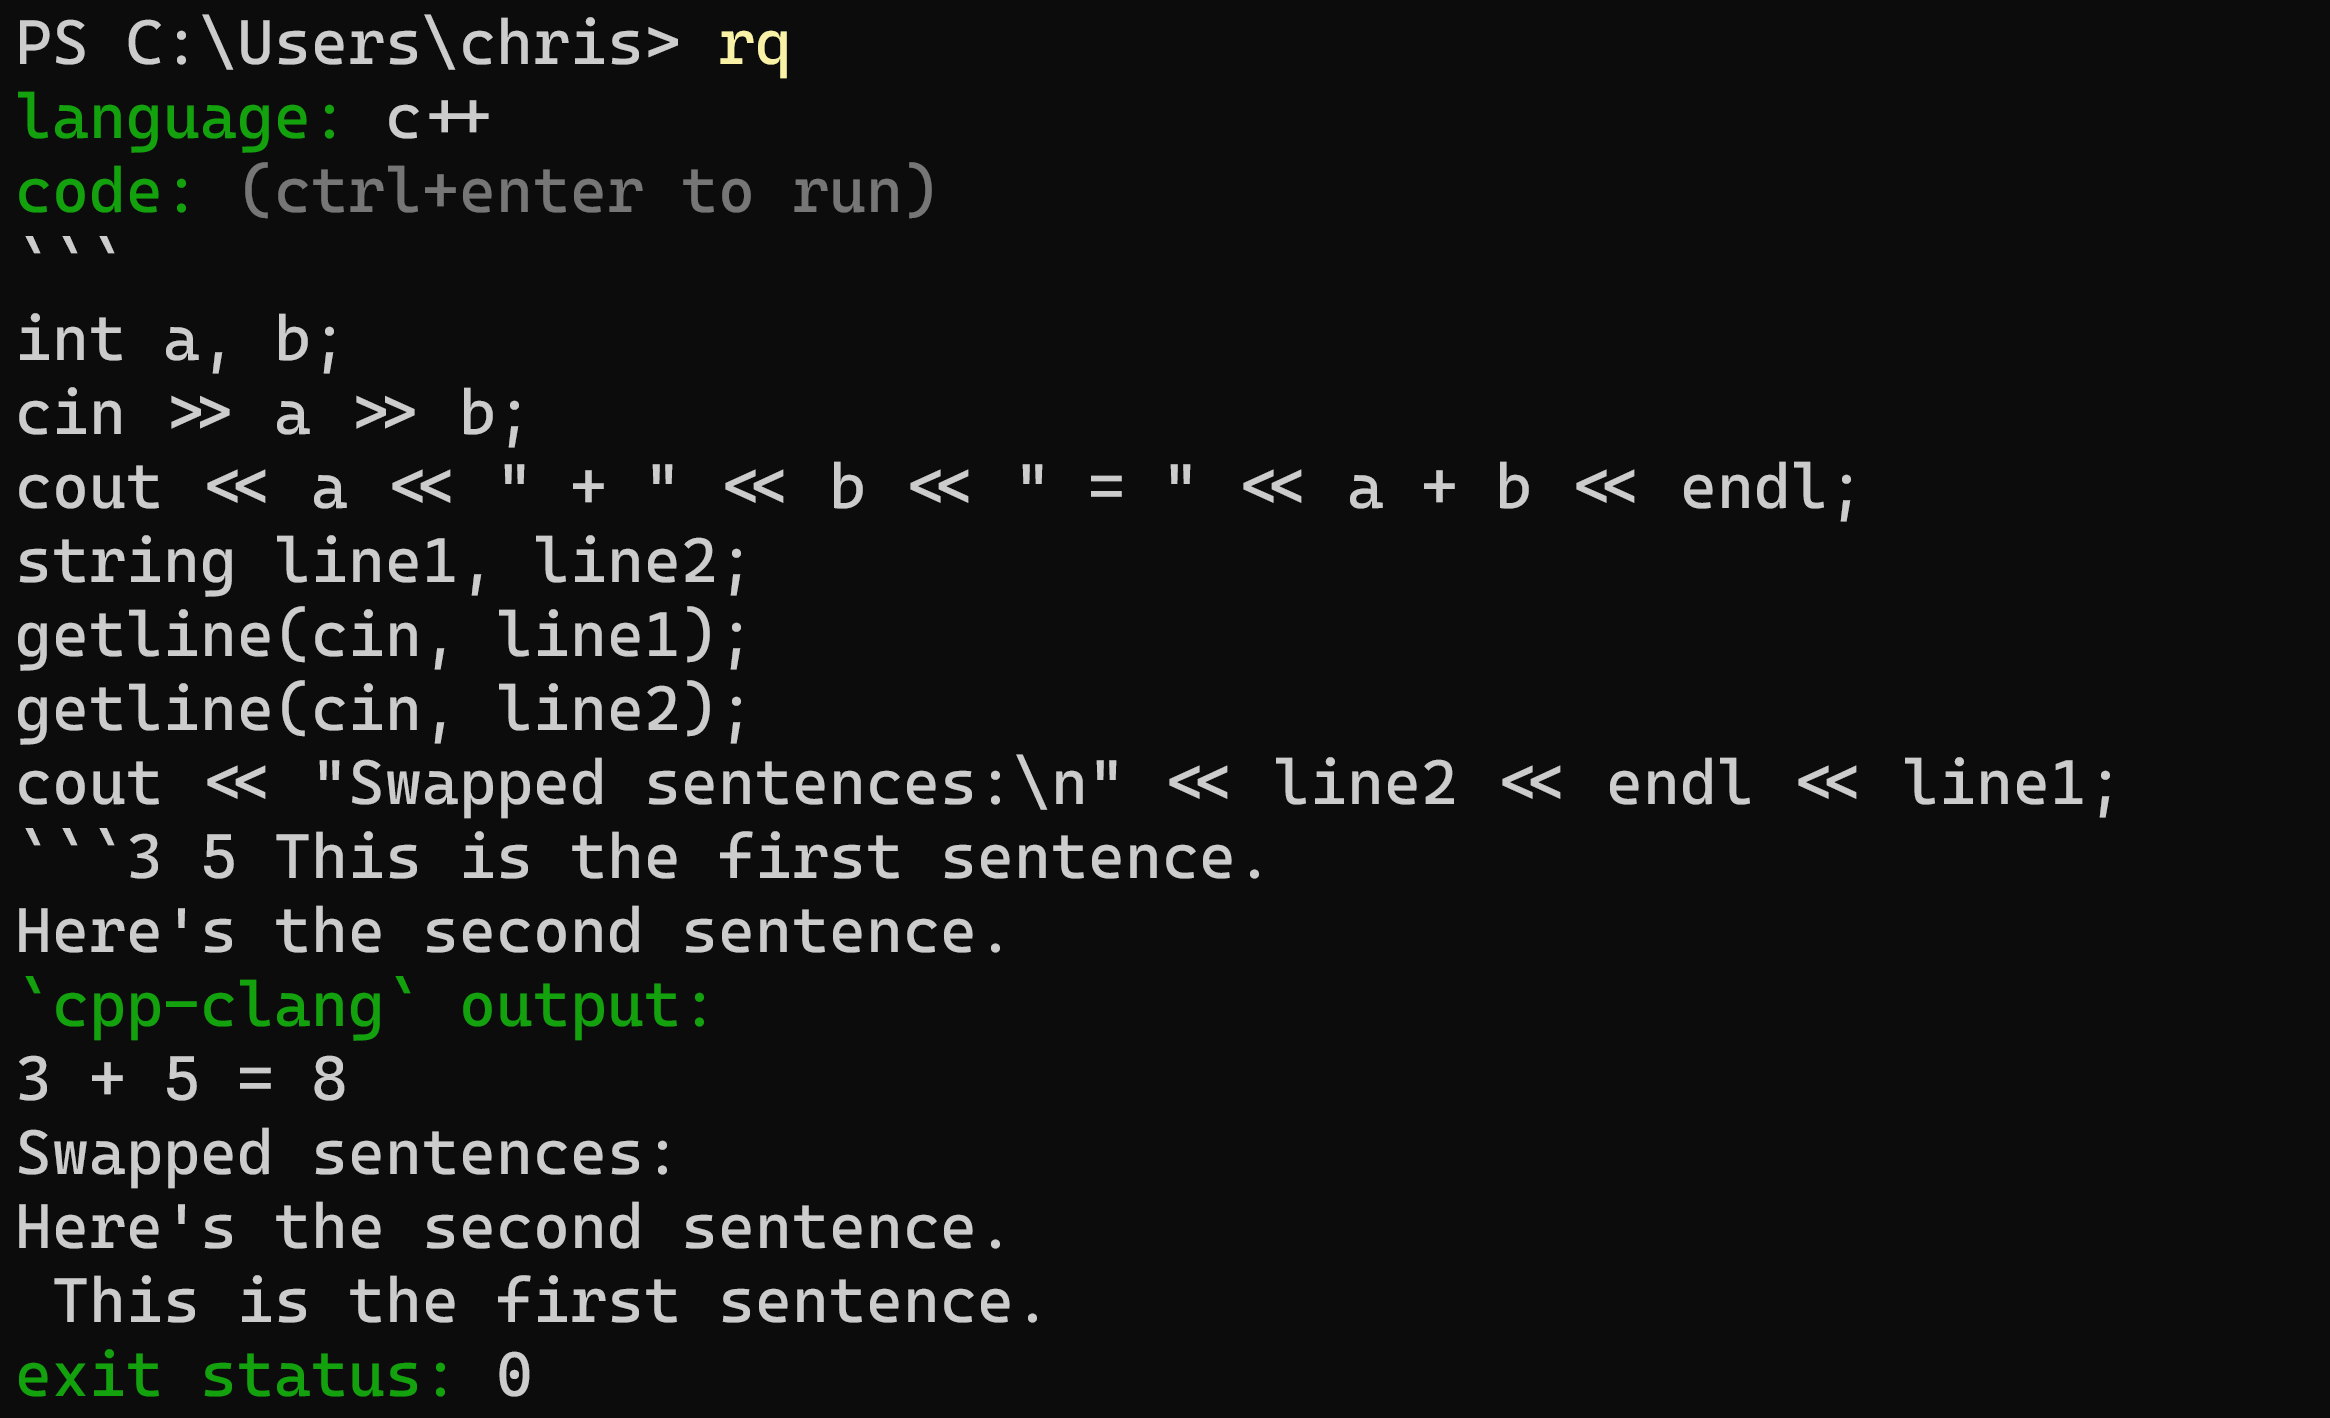
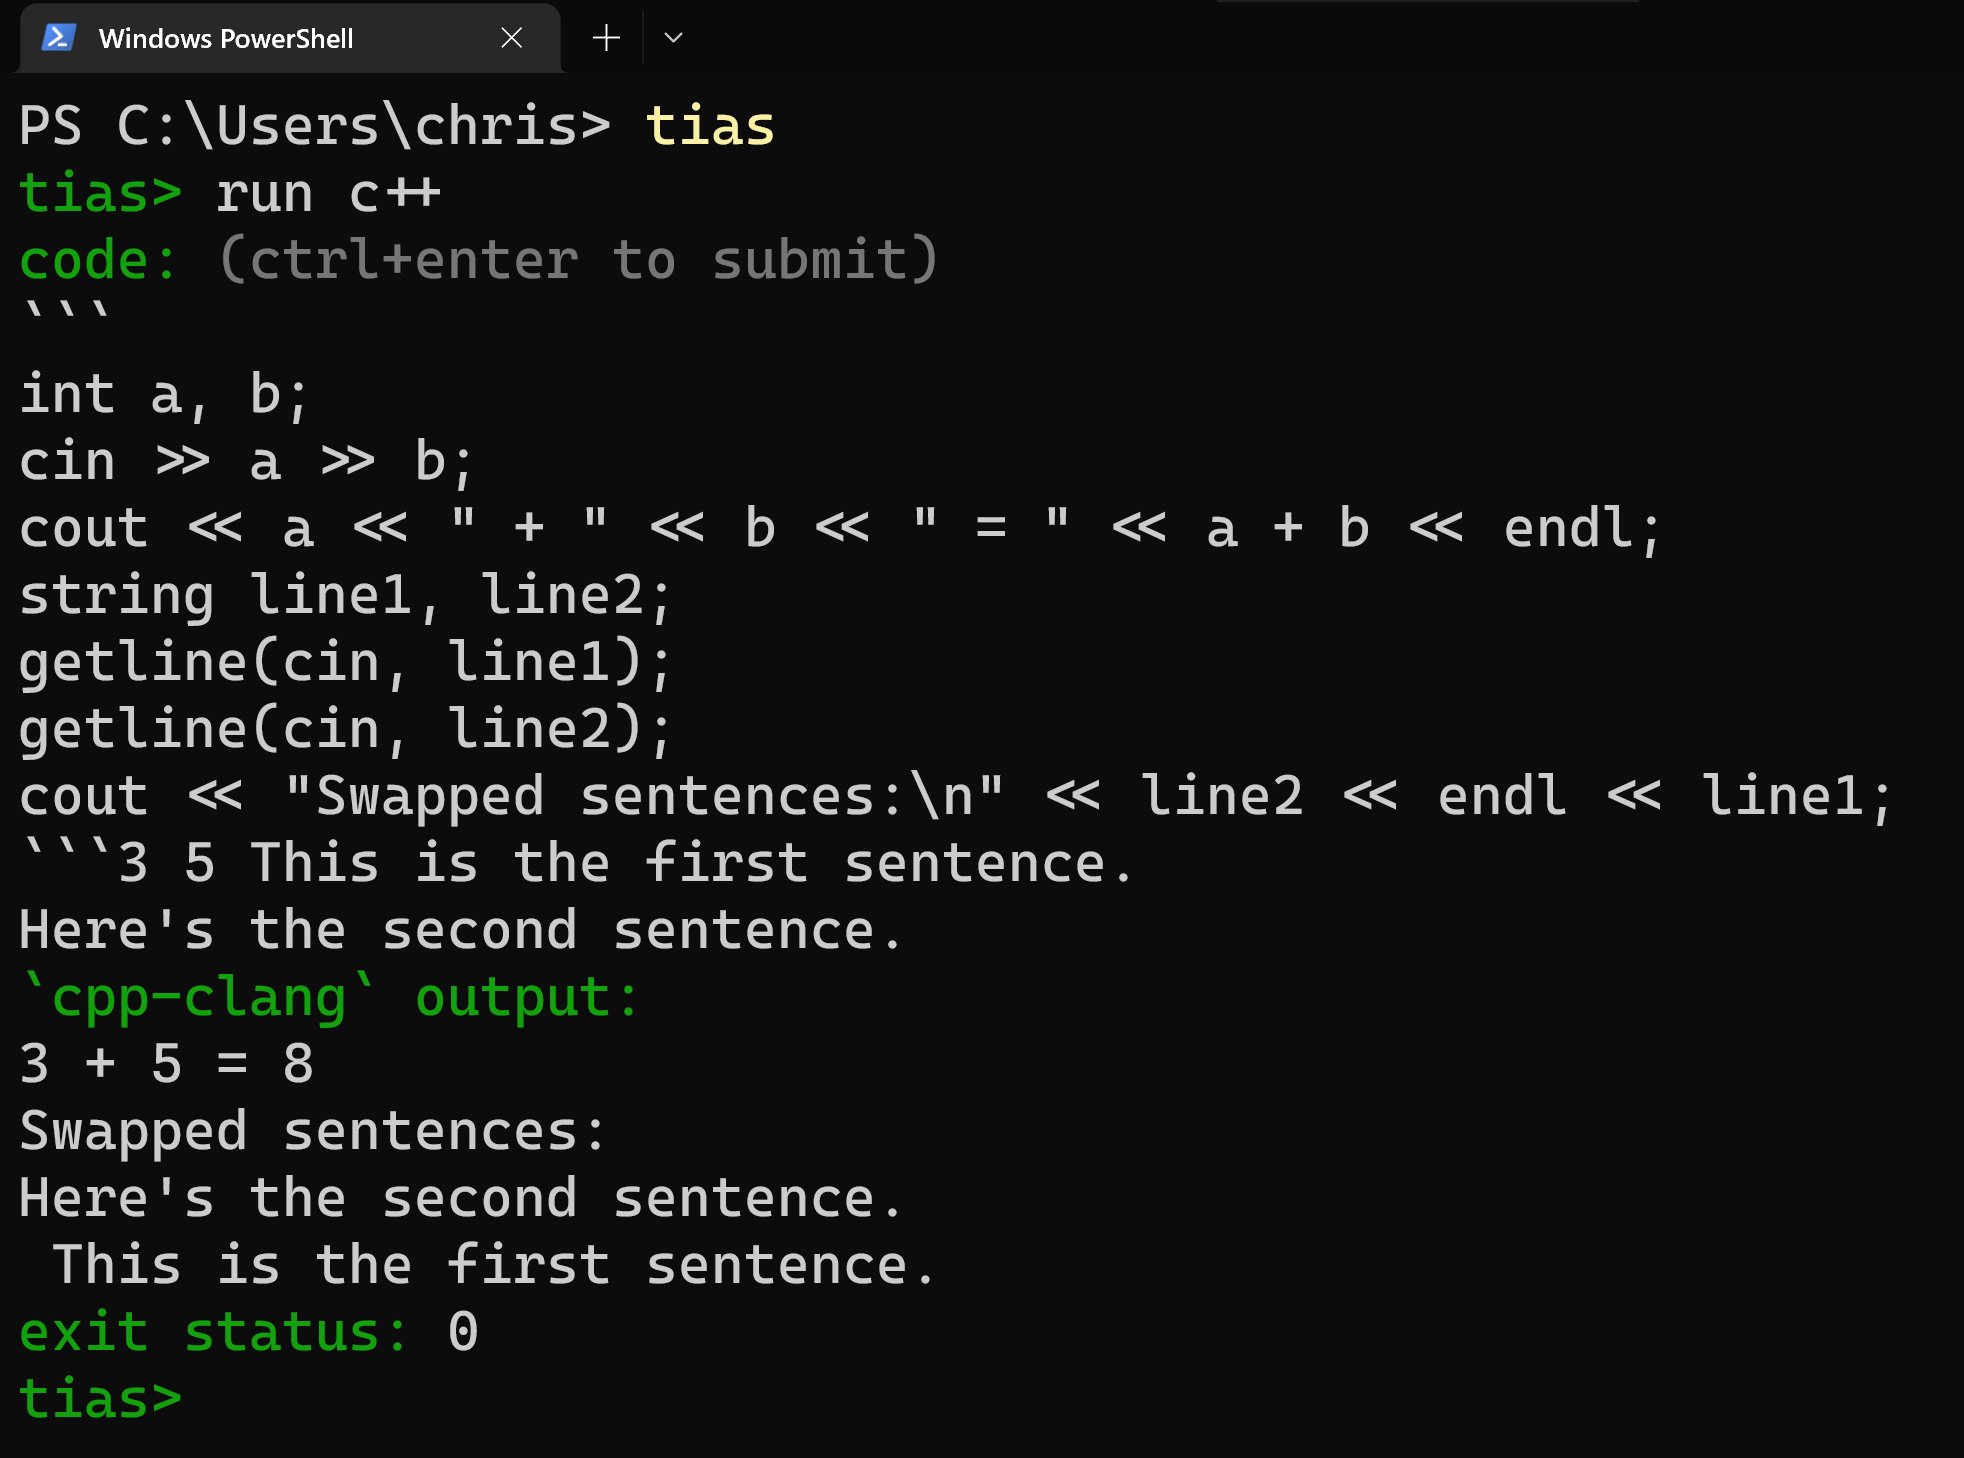
Update README.md

Changed region(s): [[0.0, 0.0, 0.9628, 0.9929], [0.4659, 0.3103, 0.8386, 0.3724], [0.4348, 0.3103, 0.4659, 0.3413]]

diff --git a/README.md b/README.md
@@ -1,10 +1,14 @@
-# run quick
+# tias (try it and see)
 
 Quickly run code in almost any language.
 
-![rq demo](https://media.giphy.com/media/ow5R3oAFvrEsSesdtI/giphy.gif)
+![tias demo](https://media.giphy.com/media/PF3RygFxDwe6OVbFBr/giphy.gif)
 
-This app uses [tio.run](https://tio.run/#)'s API but can also wrap commonly used jargon around your code for faster experimentation. Here are some sample hello world programs in various languages in this app:
+Install with `pip install tias`.
+
+## reuse code
+
+Set commonly used code ("jargon") to automatically wrap around the code you enter. Default jargon is given for many languages for one-line hello worlds, including:
 
 **C#**
 
@@ -36,9 +40,9 @@ System.out.println("hello world");
 println!("hello world");
 ```
 
-These super short hello world programs are possible because if you don't create a main function, this app can wrap your code in a main function and import commonly used libraries. Jargon wrapping is available for several languages. You can see a language's optional jargon (and whether a language has optional jargon) by entering ` jargon` after the language name when the app asks you to choose a language.
+![help demo](images/help.png)
 
-![jargon demo](images/jargon.png)
+Run tias with `py -m tias` or `python3 -m tias`. You can create a custom terminal command to make running this app even easier by following [these instructions](https://wheelercj.github.io/notes/pages/20220320181252.html).
 
 ## supported languages
 
@@ -46,23 +50,10 @@ Here are some of the languages:
 
 APL, Assembly, Bash, C, C#, C++, Clojure, COBOL, Crystal, Dart, Elixir, Emacs Lisp, Erlang, F#, Fortran, Go, Groovy, Haskell, Java, JavaScript, Julia, Kotlin, LLVM, LOLCODE, Lua, Malbolge, Objective-C, OCaml, Perl, PHP, PowerShell, Python, R, Ruby, Rust, Scala, SQLite, Swift, TypeScript, and hundreds more (680 total).
 
-To see the full list, enter `list` when this app asks you which language to use. Some language choices may require you to specify which compiler you want to use. You can filter the results by entering the start of a language after `list `.
-
-![list demo](images/list.png)
-
 ## giving input
 
 You can give input to your code by wrapping it with three backticks and then listing the inputs after.
 
 ![input demo](images/input.png)
 
-## download
-
-0. Download Python if you haven't already. This app has been tested with Python 3.9 and 3.10.
-1. Download the source code here: https://github.com/wheelercj/run-quick/tags.
-2. Unzip the file.
-3. You may want to create a virtual environment.
-4. Install the dependencies with `pip install -r requirements.txt`.
-5. Run main.py.
-
-You can create a terminal command to run this app by following [these instructions](https://wheelercj.github.io/notes/pages/20220320181252.html).
+This app uses [tio.run](https://tio.run/#)'s API.
